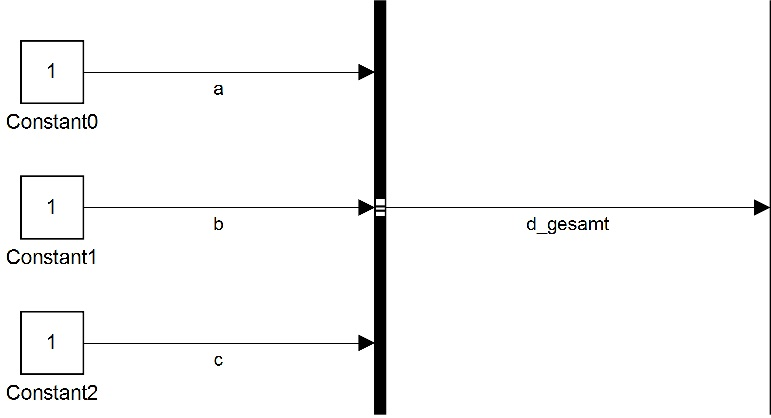
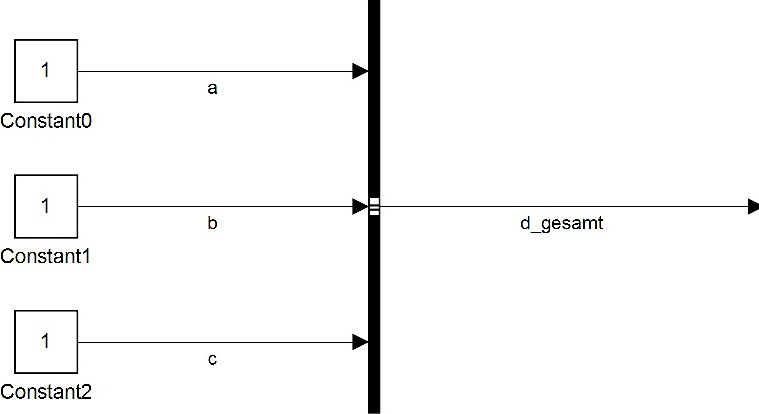
Bilder cropped

diff --git a/doku/entwurf/Entwurfsdokument_template.tex b/doku/entwurf/Entwurfsdokument_template.tex
@@ -68,7 +68,7 @@
 
 % Für die Einbindung von Bildern:
 
-\usepackage[pdftex]{graphicx} % .pdf, .png oder .eps möglich! pdftex
+\usepackage[pdftex]{graphicx} % .pdf, .png oder .jpg möglich!
 \usepackage{rotating}         % Grafiken rotieren
 
 % Nutzung in drei Umgebungen möglich:
@@ -157,20 +157,11 @@ Hier Text einfügen!
 
 \section{Architekturmuster und Systemzerlegung}
 \subsection{dSPACE MicroAutoBox II}
-\subsection{Embedded-PC}
-\subsection{Webserver}
-\subsection{Webseite}
-\subsection{Datenbanken}
-\subsubsection{Fahrzeugdaten-Datenbank}
-\subsubsection{Benutzerdaten-Datenbank}
 
-%--------------------------  Feinentwurf  --------------------------%
-
-\chapter{Feinentwurf}
 \section{Simulink-Modell}
 \subsection{Verwendete Blöcke}
 
-Um den Einstieg in unsere im folgenden aufgeführte Modellausschnitte für Außenstehende zu erleichtern, werden im Verlauf dieses Abschnittes alle zur Erstellung des Simulink-Modells für die dSPACE MicroAutoBox II verwendeten Blöcke vorgestellt und ihre Funktionsweise kurz erläutert.
+Um den Einstieg in unsere im folgenden aufgeführte Modellausschnitte  zu erleichtern, werden im Verlauf dieses Abschnittes alle zur Erstellung des Simulink-Modells für die dSPACE MicroAutoBox II verwendeten Blöcke vorgestellt und ihre Funktionsweise kurz erläutert.
 
 \subsubsection{Sources}
 \begin{itemize}
@@ -235,6 +226,10 @@ Dies hat den Zweck, dass man nach dem Convert-Block unabhängig vom  angelegten 
 
 \end{itemize} 
 
+\item[2)] \textit{"`Bus to Vector"\ - Block}
+
+Dieser Block konvertiert ein virtuelles Bussignal in ein Vektorsignal. Hierbei ist es erforderlich, dass alle am zu konvertierenden Bus anliegenden Signale im Datentyp, Signaltyp und im gewählten Sampling-Verfahren übereinstimmen.
+
 \end{itemize}
 
 \subsubsection{Sinks}
@@ -243,23 +238,42 @@ Dies hat den Zweck, dass man nach dem Convert-Block unabhängig vom  angelegten 
 
 \item[1)] \textit{Terminator}
 
-Der Terminator dient dazu, Blöcke oder Signale, deren Ausgänge nicht mit Blöcken verbunden sind, abzuschließen. 
+Der Terminator dient dazu, die Signale, deren Ausgänge nicht mit Blöcken o.ä. verbunden sind, abzuschließen. 
+
+\item[2)] \textit{Scope}
+
+Der Scope-Block stellt den Signalverlauf eines Signals über der Simulationszeit dar, weswegen er sich hervorragend dafür eignet ein erstelltes Modell auf dessen Korrektheit zu überprüfen.
+
+\item[3)] \textit{Display}
+
+Der Display-Block zeigt den konkreten Wert eines Eingangssignals an. Um die Anzeige des Displays anzupassen, kann der Entwickler über die Einstellungen der Format-Parameter Einfluss darauf nehmen.  
+
+\end{itemize}
+
+\subsubsection{dSPACE-Blöcke}
+
+Im Folgenden sollen nun diejenigen Blöcke vorgestellt werden, welche für eine Verwendung mit der MicroAutoBox II konzipiert wurden und u.a. für eine Kommunikation ebendieser mit dem Embedded-PC unerlässlich sind. 
+
+\begin{itemize}
+
+\item[1)] \textit{Encode32-Block}
+
+\item[2)] \textit{"`UDP Send" \ - Block} 
 
 \end{itemize}
 
 
 
+\subsection{Embedded-PC}
+\subsection{Webserver}
+\subsection{Webseite}
+\subsection{Datenbanken}
+\subsubsection{Fahrzeugdaten-Datenbank}
+\subsubsection{Benutzerdaten-Datenbank}
 
- 
+%--------------------------  Feinentwurf  --------------------------%
 
-
-
-
-
-
-
-
- 
+\chapter{Feinentwurf} 
 
 %---------------------------  Glossar  -----------------------------%
 
@@ -270,5 +284,9 @@ Der Terminator dient dazu, Blöcke oder Signale, deren Ausgänge nicht mit Blöc
 %\chapter*{Abbildungsverzeichnis}
 
 \listoffigures
+
+%---------------------------  Anhang  ------------------------------%
+
+\chapter*{Anhang}
 
 \end{document}
